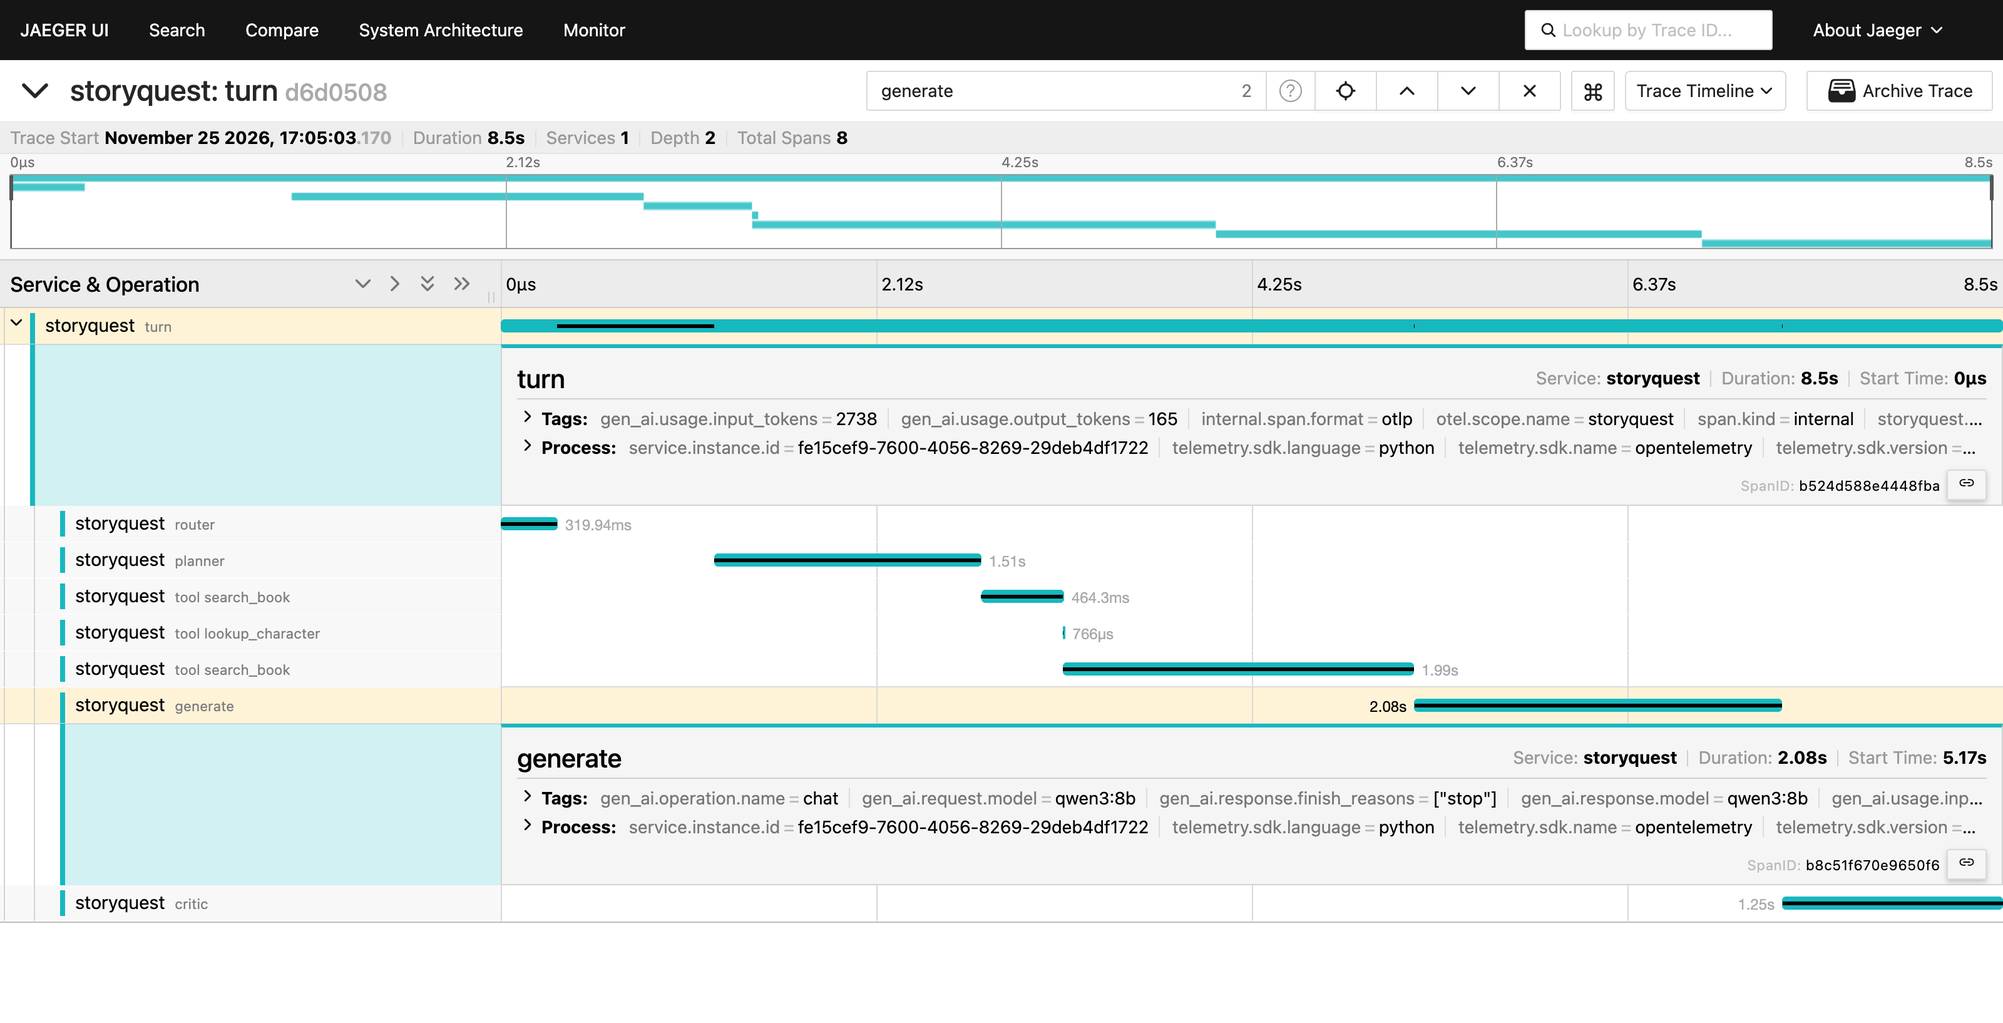
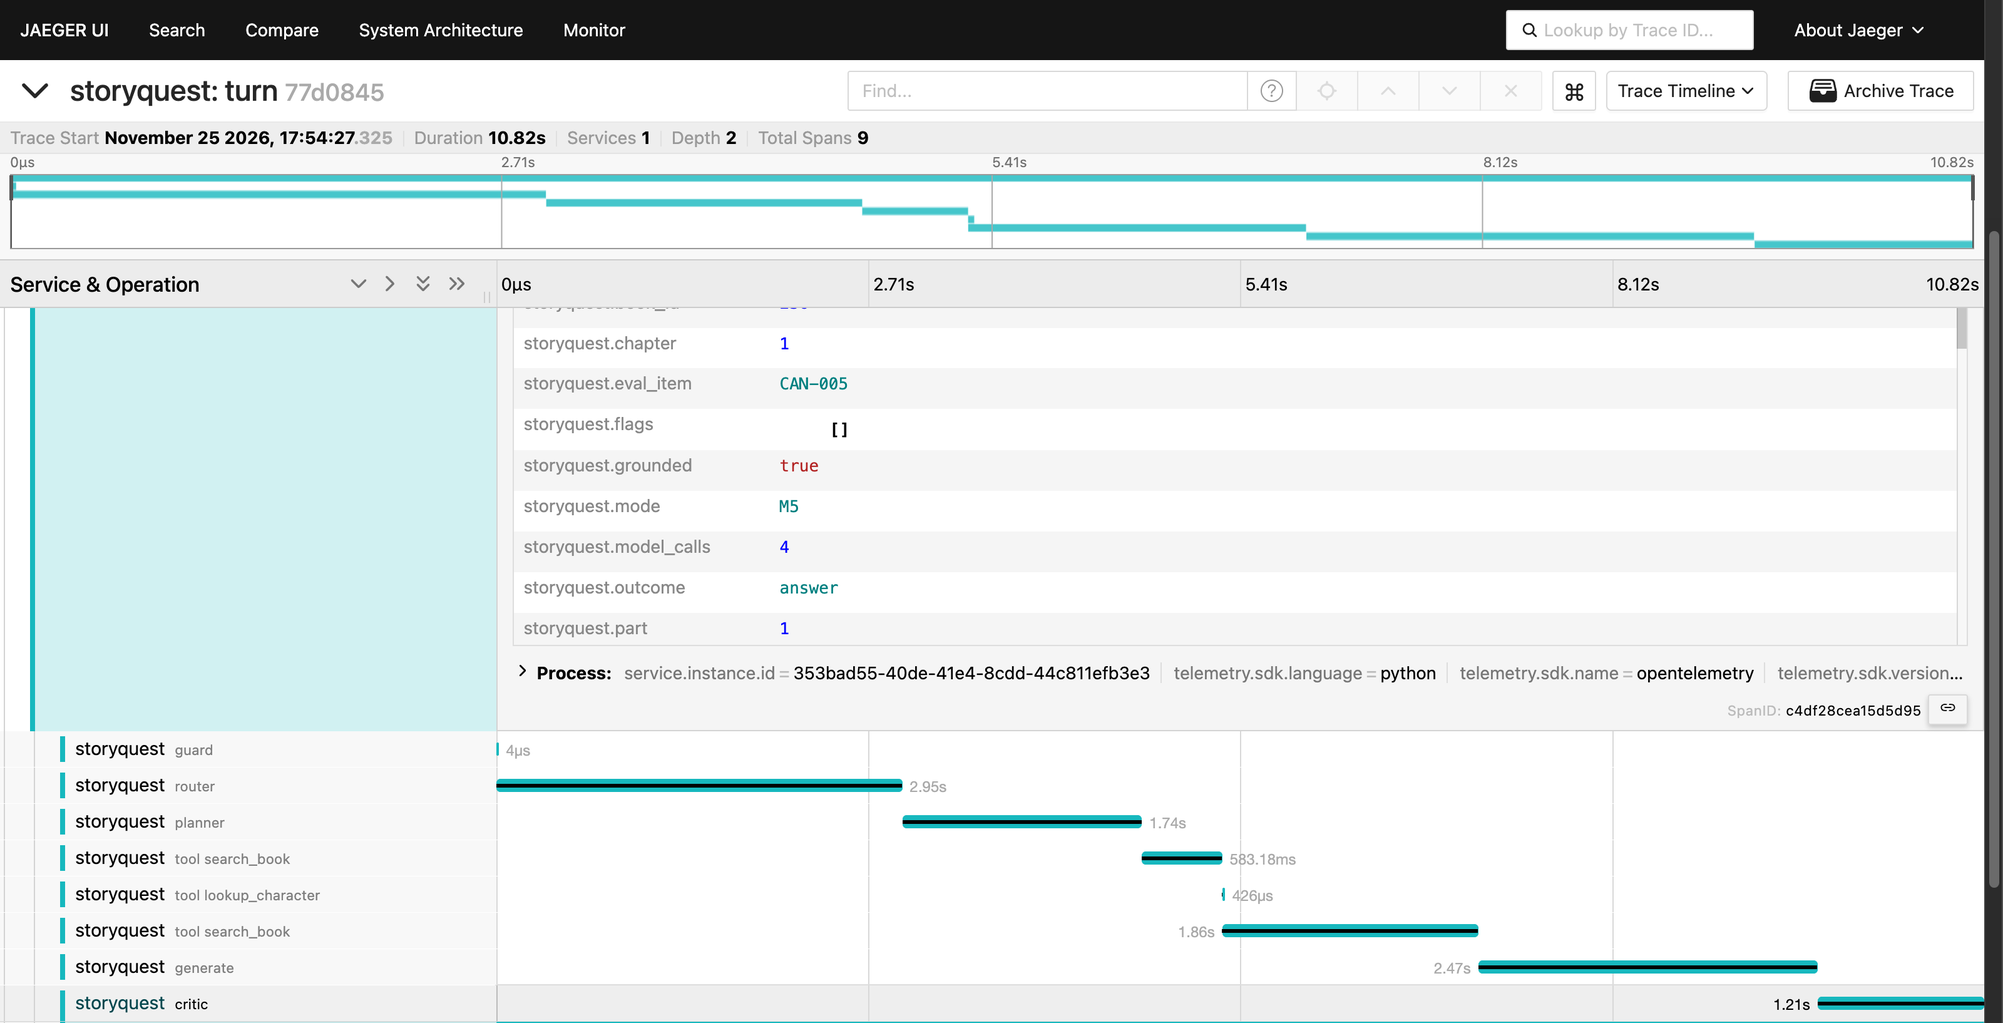
OpenTelemetry: stages, decisions and searchable tags in each trace
Each trace now shows the stages that are not model calls (guard, retrieval,
verify, output check), the outcome and whether the answer was grounded,
the passages used, the router label, the tools the planner chose, the
sentence ids cited and the critic's verdict. Eval turns are tagged with
their golden id and game turns with a hashed session id. Prompts and
output are added only with OTEL_TRACE_TEXT=true.

Changed region(s): [[0.0, 0.0, 1.0, 1.0], [0.625, 0.0624, 0.6875, 0.0936], [0.4375, 0.0624, 0.4688, 0.0936]]

diff --git a/src/storyquest/telemetry.py b/src/storyquest/telemetry.py
@@ -5,20 +5,23 @@ Each turn becomes one trace: a `turn` span with one child span per model call (r
 generate, critic) and per tool call. Model calls use the OpenTelemetry GenAI names
 (`gen_ai.request.model`, `gen_ai.usage.input_tokens`, ...), so any OTLP viewer shows them.
 
-By default no text leaves the app: spans carry the mode, route, flags, timings, tokens and models,
-but not the child's message, the reply, prompts or tool arguments. OTEL_TRACE_TEXT=true adds the
-message and the reply, for local debugging only. This matches TRACE_STORE=summary.
+By default no text leaves the app: spans carry the mode, route, outcome, flags, timings, tokens,
+models, the tools chosen, the critic's verdict, cited sentence ids and passage positions, but not
+the child's message, the reply, prompts or tool arguments. OTEL_TRACE_TEXT=true adds those, for
+local debugging only. This matches TRACE_STORE=summary.
 
 The turn is exported after it ends, from the timings the trace already records, so the agent code
 does not change and a failing exporter can never break a turn.
 """
 
 import atexit
+import json
 import logging
 import os
 from collections.abc import Mapping
 from typing import Any
 
+from storyquest.agent.replies import REPLIES
 from storyquest.agent.trace import StepTrace, ToolTrace, TurnResult
 
 log = logging.getLogger(__name__)
@@ -90,6 +93,53 @@ def export_turn(
         log.exception("could not export the turn to OpenTelemetry")
 
 
+def _json(text: str) -> dict[str, Any]:
+    try:
+        data = json.loads(text)
+    except ValueError:
+        return {}
+    return data if isinstance(data, dict) else {}
+
+
+def _step_attributes(step: StepTrace) -> dict[str, Any]:
+    """What a model call decided, without any text: the tools a planner chose, a critic's
+    verdict, the sentence ids an answer cited. Prompts and output only with OTEL_TRACE_TEXT."""
+    out: dict[str, Any] = {
+        "gen_ai.operation.name": "chat",
+        "gen_ai.request.model": step.model,
+        "gen_ai.response.model": step.model,
+        "gen_ai.usage.input_tokens": step.prompt_tokens,
+        "gen_ai.usage.output_tokens": step.completion_tokens,
+        "gen_ai.response.finish_reasons": [step.finish_reason or ""],
+        "storyquest.cached": step.cached,
+    }
+    data = _json(step.output)
+    if step.name == "router" and isinstance(data.get("label"), str):
+        out["storyquest.router.label"] = data["label"]
+    elif step.name == "planner" and isinstance(data.get("calls"), list):
+        out["storyquest.planner.tools"] = [
+            str(c.get("tool")) for c in data["calls"] if isinstance(c, dict)
+        ]
+    elif step.name == "critic" and isinstance(data.get("verdict"), str):
+        out["storyquest.critic.verdict"] = data["verdict"]
+    elif step.name == "generate" and isinstance(data.get("evidence"), list):
+        out["storyquest.evidence_ids"] = [str(e) for e in data["evidence"]]
+    if _text_allowed():
+        out["storyquest.prompt"] = "\n\n".join(
+            f"[{m['role']}] {m['content']}" for m in step.messages
+        )
+        out["storyquest.output"] = step.output
+    return out
+
+
+def _outcome(result: TurnResult) -> str:
+    """ "answer" for a written answer, else the name of the fixed reply the child got."""
+    for name, reply in REPLIES.items():
+        if result.reply == reply:
+            return name
+    return "answer"
+
+
 def _export(tracer: Any, result: TurnResult, attributes: Attributes, text: str) -> None:
     from opentelemetry import trace
     from opentelemetry.trace import Status, StatusCode
@@ -99,10 +149,15 @@ def _export(tracer: Any, result: TurnResult, attributes: Attributes, text: str) 
     attrs: dict[str, Any] = {
         "storyquest.mode": result.mode,
         "storyquest.route": result.route,
+        "storyquest.outcome": _outcome(result),
+        "storyquest.grounded": bool(result.evidence),
         "storyquest.flags": list(result.flags),
         "storyquest.model_calls": len(result.steps),
         "storyquest.tool_calls": len(result.tool_calls),
-        "storyquest.passages": len(result.passages),
+        "storyquest.passages": [
+            f"chapter {p.chapter_idx + 1} part {p.beat_idx + 1} #{p.idx} ({p.source})"
+            for p in result.passages
+        ],
         "gen_ai.usage.input_tokens": result.prompt_tokens,
         "gen_ai.usage.output_tokens": result.completion_tokens,
         **{f"storyquest.seconds.{stage}": s for stage, s in result.timings.items()},
@@ -112,24 +167,25 @@ def _export(tracer: Any, result: TurnResult, attributes: Attributes, text: str) 
         attrs["storyquest.child_message"] = text
         attrs["storyquest.reply"] = result.reply
     root = tracer.start_span("turn", start_time=_ns(start), attributes=attrs)
-    if result.route == "error":
-        root.set_status(Status(StatusCode.ERROR, "the turn ended with an error reply"))
+    for flag in result.flags:  # shown as logs on the turn, in the order they were raised
+        root.add_event(flag)
+    errors = [f for f in result.flags if f.startswith("llm_error")]
+    if result.route == "error" or errors:
+        root.set_status(Status(StatusCode.ERROR, errors[0] if errors else "error reply"))
     parent = trace.set_span_in_context(root)
+
+    for name, began, ended in result.stages:  # the stages that are not a model or tool call
+        if name in _CALL_STAGES:
+            continue
+        span = tracer.start_span(name, context=parent, start_time=_ns(began))
+        span.end(end_time=_ns(ended))
 
     for step in result.steps:
         span = tracer.start_span(
             step.name,
             context=parent,
             start_time=_ns(_step_start(step, start)),
-            attributes={
-                "gen_ai.operation.name": "chat",
-                "gen_ai.request.model": step.model,
-                "gen_ai.response.model": step.model,
-                "gen_ai.usage.input_tokens": step.prompt_tokens,
-                "gen_ai.usage.output_tokens": step.completion_tokens,
-                "gen_ai.response.finish_reasons": [step.finish_reason or ""],
-                "storyquest.cached": step.cached,
-            },
+            attributes=_step_attributes(step),
         )
         span.end(end_time=_ns(max(step.ended_at, _step_start(step, start))))
 
@@ -150,3 +206,7 @@ def _export(tracer: Any, result: TurnResult, attributes: Attributes, text: str) 
         span.end(end_time=_ns(call.ended_at))
 
     root.end(end_time=_ns(max(end, start)))
+
+
+# Stages that already appear as model or tool spans.
+_CALL_STAGES = {"router", "planner", "generate", "critic", "tools"}

diff --git a/tests/test_telemetry.py b/tests/test_telemetry.py
@@ -13,7 +13,7 @@ from opentelemetry.sdk.trace.export.in_memory_span_exporter import (  # noqa: E4
     InMemorySpanExporter,
 )
 
-from llm_helpers import AgentLLM, plan  # noqa: E402
+from llm_helpers import AgentLLM, ScriptedLLM, plan  # noqa: E402
 from storyquest import telemetry  # noqa: E402
 from storyquest.agent.context import AgentContext  # noqa: E402
 from storyquest.agent.modes import get_mode  # noqa: E402
@@ -49,13 +49,18 @@ def test_an_agent_turn_becomes_one_trace_with_a_span_per_call(
 ) -> None:
     result = _agent_turn(make_ctx)
     by_name = {s.name: s for s in spans.get_finished_spans()}
-    assert set(by_name) == {"turn", "router", "planner", "tool search_book", "generate", "critic"}
+    assert {"turn", "router", "planner", "tool search_book", "generate", "critic"} <= set(by_name)
+    assert "guard" in by_name  # stages that are not model calls show on the timeline too
     root = by_name["turn"]
     assert root.parent is None
     assert root.attributes is not None
     assert root.attributes["storyquest.mode"] == "M5"
     assert root.attributes["storyquest.route"] == "story_question"
-    assert root.attributes["storyquest.chapter"] == 0 and root.attributes["storyquest.beat"] == 1
+    assert root.attributes["storyquest.chapter"] == 1 and root.attributes["storyquest.part"] == 2
+    assert root.attributes["storyquest.outcome"] == "answer"
+    assert root.attributes["storyquest.grounded"] is True
+    passages = root.attributes["storyquest.passages"]
+    assert isinstance(passages, tuple) and passages and passages[0].startswith("chapter 1 part")
     assert root.attributes["gen_ai.usage.input_tokens"] == result.prompt_tokens
     for name, span in by_name.items():
         if name != "turn":
@@ -65,8 +70,13 @@ def test_an_agent_turn_becomes_one_trace_with_a_span_per_call(
     generate = by_name["generate"].attributes
     assert generate is not None and generate["gen_ai.operation.name"] == "chat"
     assert generate["gen_ai.request.model"] == "fake"
+    assert generate["storyquest.evidence_ids"]
     tool = by_name["tool search_book"].attributes
     assert tool is not None and tool["gen_ai.tool.name"] == "search_book"
+    planner, critic = by_name["planner"].attributes, by_name["critic"].attributes
+    assert planner is not None and planner["storyquest.planner.tools"] == ("search_book",)
+    assert critic is not None and critic["storyquest.critic.verdict"] == "approve"
+    assert "storyquest.prompt" not in generate
 
 
 @pytest.mark.integration
@@ -88,6 +98,8 @@ def test_text_is_added_only_when_asked_for(
     assert root.attributes is not None
     assert root.attributes["storyquest.child_message"] == QUESTION
     assert root.attributes["storyquest.reply"] == result.reply
+    (gen,) = [s for s in spans.get_finished_spans() if s.name == "generate"]
+    assert gen.attributes is not None and "Shere Khan" in str(gen.attributes["storyquest.prompt"])
 
 
 def test_a_cached_call_takes_no_time_in_the_trace(spans: InMemorySpanExporter) -> None:
@@ -113,3 +125,32 @@ def test_a_broken_exporter_never_breaks_the_turn() -> None:
 
     turn = TurnResult("hi", "story_question", "M2S", started_at=1.0)
     telemetry.export_turn(turn, tracer=Broken())
+
+
+@pytest.mark.integration
+def test_a_fixed_reply_and_its_tags_are_searchable(
+    make_ctx: MakeCtx, spans: InMemorySpanExporter
+) -> None:
+    llm = AgentLLM(label="personal")
+    run_turn(
+        make_ctx(llm),
+        "I live at 5 Park Road",
+        Position(0, 0),
+        mode=get_mode("M5"),
+        trace_attributes={"storyquest.eval_item": "PII-001"},
+    )
+    (root,) = [s for s in spans.get_finished_spans() if s.name == "turn"]
+    assert root.attributes is not None
+    assert root.attributes["storyquest.eval_item"] == "PII-001"
+    assert (
+        root.attributes["storyquest.outcome"] == root.attributes["storyquest.route"] == "personal"
+    )
+
+
+@pytest.mark.integration
+def test_a_linear_turn_shows_its_search_and_checks(
+    make_ctx: MakeCtx, spans: InMemorySpanExporter
+) -> None:
+    run_turn(make_ctx(ScriptedLLM()), "Who is Tabaqui?", Position(0, 0), mode=get_mode("M1"))
+    names = [s.name for s in spans.get_finished_spans()]
+    assert {"turn", "guard", "router", "retrieval", "generate", "output_check"} <= set(names)

diff --git a/src/storyquest/agent/turn.py b/src/storyquest/agent/turn.py
@@ -1,7 +1,7 @@
 """One child turn: guard, route, then (retrieve), generate, check, or the agent loop (M5)."""
 
 import time
-from collections.abc import Sequence
+from collections.abc import Mapping, Sequence
 from dataclasses import replace
 
 from storyquest.agent.context import AgentContext
@@ -15,7 +15,7 @@ from storyquest.agent.output_check import check_reply
 from storyquest.agent.replies import REPLIES
 from storyquest.agent.retrieval import retrieve
 from storyquest.agent.router import classify
-from storyquest.agent.trace import StepTrace, TurnResult, timed
+from storyquest.agent.trace import STAGES, StepTrace, TurnResult, timed
 from storyquest.domain.position import Position
 from storyquest.models.llm import LLMError, LLMResult, Message
 from storyquest.stores.search import SearchHit
@@ -43,24 +43,34 @@ def run_turn(
     *,
     mode: Mode,
     history: Sequence[PastTurn] = (),
+    trace_attributes: Mapping[str, str | int] | None = None,
 ) -> TurnResult:
     """Answer one message. `history` (the session's last story questions) is used by the agent
-    mode only, to understand follow-up questions."""
+    mode only, to understand follow-up questions. `trace_attributes` are extra tags for the
+    OpenTelemetry trace (a hashed session id, an eval item id)."""
     started_at, start = time.time(), time.monotonic()
     timings: dict[str, float] = {}
-    result = _run(ctx, text, position, mode, timings, history)
+    stages: list[tuple[str, float, float]] = []
+    token = STAGES.set(stages)
+    try:
+        result = _run(ctx, text, position, mode, timings, history)
+    finally:
+        STAGES.reset(token)
     result = replace(
         result,
         started_at=started_at,
         total_latency_s=round(time.monotonic() - start, 4),
         timings=timings,
+        stages=stages,
     )
     export_turn(
         result,
         {
             "storyquest.book_id": ctx.book.id,
-            "storyquest.chapter": position.chapter_idx,
-            "storyquest.beat": position.beat_idx,
+            "storyquest.chapter": position.chapter_idx + 1,
+            "storyquest.part": position.beat_idx + 1,
+            "storyquest.part_title": ctx.where(position).beat_title or "",
+            **(trace_attributes or {}),
         },
         text=text,
     )

diff --git a/src/storyquest/agent/trace.py b/src/storyquest/agent/trace.py
@@ -1,22 +1,30 @@
 import time
 from collections.abc import Iterator
 from contextlib import contextmanager
+from contextvars import ContextVar
 from dataclasses import dataclass, field
 from typing import Any
 
 from storyquest.models.llm import LLMResult, Message
 from storyquest.stores.search import SearchHit
 
+# (stage, wall-clock start, wall-clock end) of every timed stage of the turn being run, for the
+# OpenTelemetry timeline. Set by run_turn; None outside a turn.
+STAGES: ContextVar[list[tuple[str, float, float]] | None] = ContextVar("stages", default=None)
+
 
 @contextmanager
 def timed(timings: dict[str, float], name: str) -> Iterator[None]:
     """Add how long a stage took to `timings[name]`, even if the stage ends the turn early.
     A stage that runs twice (the agent's second answer, say) adds up."""
-    start = time.monotonic()
+    start, wall = time.monotonic(), time.time()
     try:
         yield
     finally:
         timings[name] = round(timings.get(name, 0.0) + time.monotonic() - start, 4)
+        stages = STAGES.get()
+        if stages is not None:
+            stages.append((name, wall, time.time()))
 
 
 def hit_to_dict(p: SearchHit, *, full: bool) -> dict[str, Any]:
@@ -119,6 +127,8 @@ class TurnResult:
     total_latency_s: float = 0.0  # real time the whole turn took
     timings: dict[str, float] = field(default_factory=dict)  # seconds per stage that ran
     tool_calls: list[ToolTrace] = field(default_factory=list)  # agent mode only
+    # (stage, start, end) wall-clock times, for the OpenTelemetry timeline only (not stored)
+    stages: list[tuple[str, float, float]] = field(default_factory=list, compare=False)
 
     @property
     def prompt_tokens(self) -> int:

diff --git a/src/storyquest/api/play.py b/src/storyquest/api/play.py
@@ -6,6 +6,7 @@ text question runs the live agent, at the child's position, so its answer cannot
 comes later.
 """
 
+import hashlib
 import json
 import logging
 import secrets
@@ -303,7 +304,15 @@ def ask(
     beat = beats[session["beat_idx"]]
     history = recent_turns(app, session_id) if mode.agentic else []
     position = Position(session["chapter_idx"], beat.idx)
-    result = run_turn(ctx, text, position, mode=mode, history=history)
+    session_tag = hashlib.sha256(session_id.encode()).hexdigest()[:12]  # not the id itself
+    result = run_turn(
+        ctx,
+        text,
+        position,
+        mode=mode,
+        history=history,
+        trace_attributes={"storyquest.session": session_tag},
+    )
     event_id = _event(
         app, session_id, "ask", beat.idx, text, result.reply, result.route, result.flags
     )

diff --git a/src/storyquest/evaluation/runner.py b/src/storyquest/evaluation/runner.py
@@ -78,7 +78,13 @@ def run_item(ctx: AgentContext, cleaned: Cleaned, item: GoldItem, mode: Mode) ->
     }
     if item.skip:
         return row
-    result = run_turn(ctx, item.input, item.position, mode=mode)
+    result = run_turn(
+        ctx,
+        item.input,
+        item.position,
+        mode=mode,
+        trace_attributes={"storyquest.eval_item": item.id},
+    )
     hits = _searched(ctx, item, mode, result)
     score = score_item(item, result, _retrieval_hit(cleaned, item, hits))
     row.update(

diff --git a/docs/ai-sailors-technical-doc.md b/docs/ai-sailors-technical-doc.md
@@ -399,12 +399,13 @@ The dashboard already exposed a real fault: two M4S questions carried a `reranke
 The dashboard is built for this app; the brief also asks for tracing through a standard tool. `storyquest/telemetry.py` sends every turn to any OpenTelemetry (OTLP/HTTP) collector, such as Jaeger, Grafana Tempo or Langfuse.
 
 - **Switch.** Off unless `OTEL_EXPORTER_OTLP_ENDPOINT` is set; it needs the optional `otel` extra (`pip install -e ".[otel]"`). `make jaeger` runs a local Jaeger in Docker or Podman.
-- **Shape.** One trace per turn: a `turn` span (mode, route, flags, book position, per-stage seconds, total tokens) with one child span per model call (`router`, `planner`, `generate`, `critic`) and per tool call (`tool search_book`, ...). Model spans use the OpenTelemetry GenAI names (`gen_ai.request.model`, `gen_ai.usage.input_tokens`, `gen_ai.usage.output_tokens`, `gen_ai.response.finish_reasons`), and tool spans `gen_ai.tool.name`, so a standard viewer can read them.
+- **Shape.** One trace per turn. The `turn` span carries the mode, route, outcome (`answer`, or the fixed reply given, such as `unknown_yet` or `personal`), whether the answer was grounded, the flags (also as span events), the book position and part title, the passages used (chapter, part and passage number), total tokens and seconds per stage. Under it is one span per stage that is not a model call (`guard`, `retrieval`, `verify`, `output_check`), one per model call (`router`, `planner`, `generate`, `critic`) and one per tool call (`tool search_book`, ...). Model spans use the OpenTelemetry GenAI names (`gen_ai.request.model`, `gen_ai.usage.input_tokens`, `gen_ai.usage.output_tokens`, `gen_ai.response.finish_reasons`) and add what the call decided: the router's label, the tools the planner chose, the sentence ids the answer cited and the critic's verdict. Tool spans carry `gen_ai.tool.name` and how many passages came back; a failed tool or model call marks its span as an error.
+- **Search.** Eval turns are tagged `storyquest.eval_item` (for example `CAN-005`) and game turns `storyquest.session` (a hash, not the session id), so one question or one session can be found by tag.
 - **Timing.** Each model and tool call records when it returned, so spans sit at their real place on the timeline; a cached call takes no time.
-- **Privacy.** By default no text leaves the app: no child message, reply, prompt or tool argument. `OTEL_TRACE_TEXT=true` adds the message and the reply, for local debugging only. This mirrors `TRACE_STORE=summary`.
-- **Safety.** The turn is exported after it ends, from the trace it already records, so the agent code is unchanged and a failing exporter is logged and never reaches the child. Six tests check the span tree, the GenAI attributes, that no text leaks by default and that nothing is sent without an endpoint.
+- **Privacy.** By default no text leaves the app: no child message, reply, prompt, model output or tool argument. `OTEL_TRACE_TEXT=true` adds all of them, for local debugging only. This mirrors `TRACE_STORE=summary` and `full`.
+- **Safety.** The turn is exported after it ends, from the trace it already records, so the agent code is unchanged and a failing exporter is logged and never reaches the child. Eight tests check the span tree, the stage and decision attributes, the tags, that no text leaks by default, and that nothing is sent without an endpoint.
 
-![An M5 turn in Jaeger: router, planner, three tool calls, the answer and the critic, each with its timing; the answer span shows the model and its token counts](images/otel-jaeger-trace.png)
+![An M5 turn in Jaeger for golden question CAN-005: the turn's tags (mode, outcome, grounded, book position) above the timeline of guard, router, planner, three tool calls, the answer and the critic](images/otel-jaeger-trace.png)
 
 ---
 
@@ -564,7 +565,7 @@ The router and output check use no free-form generation for refusals, so a defle
 
 **Observability**
 
-- The OpenTelemetry export carries timings, tokens and routes, not prompts or passages, so debugging a bad answer still needs our own dashboard (in `full` mode). The eval judge's model calls are not exported, only the turns.
+- By default the OpenTelemetry export carries decisions, positions, timings and tokens but no text, so reading a bad answer needs our own dashboard in `full` mode, or `OTEL_TRACE_TEXT=true` locally. The eval judge's model calls are not exported, only the turns.
 
 **Technical limits**
 
